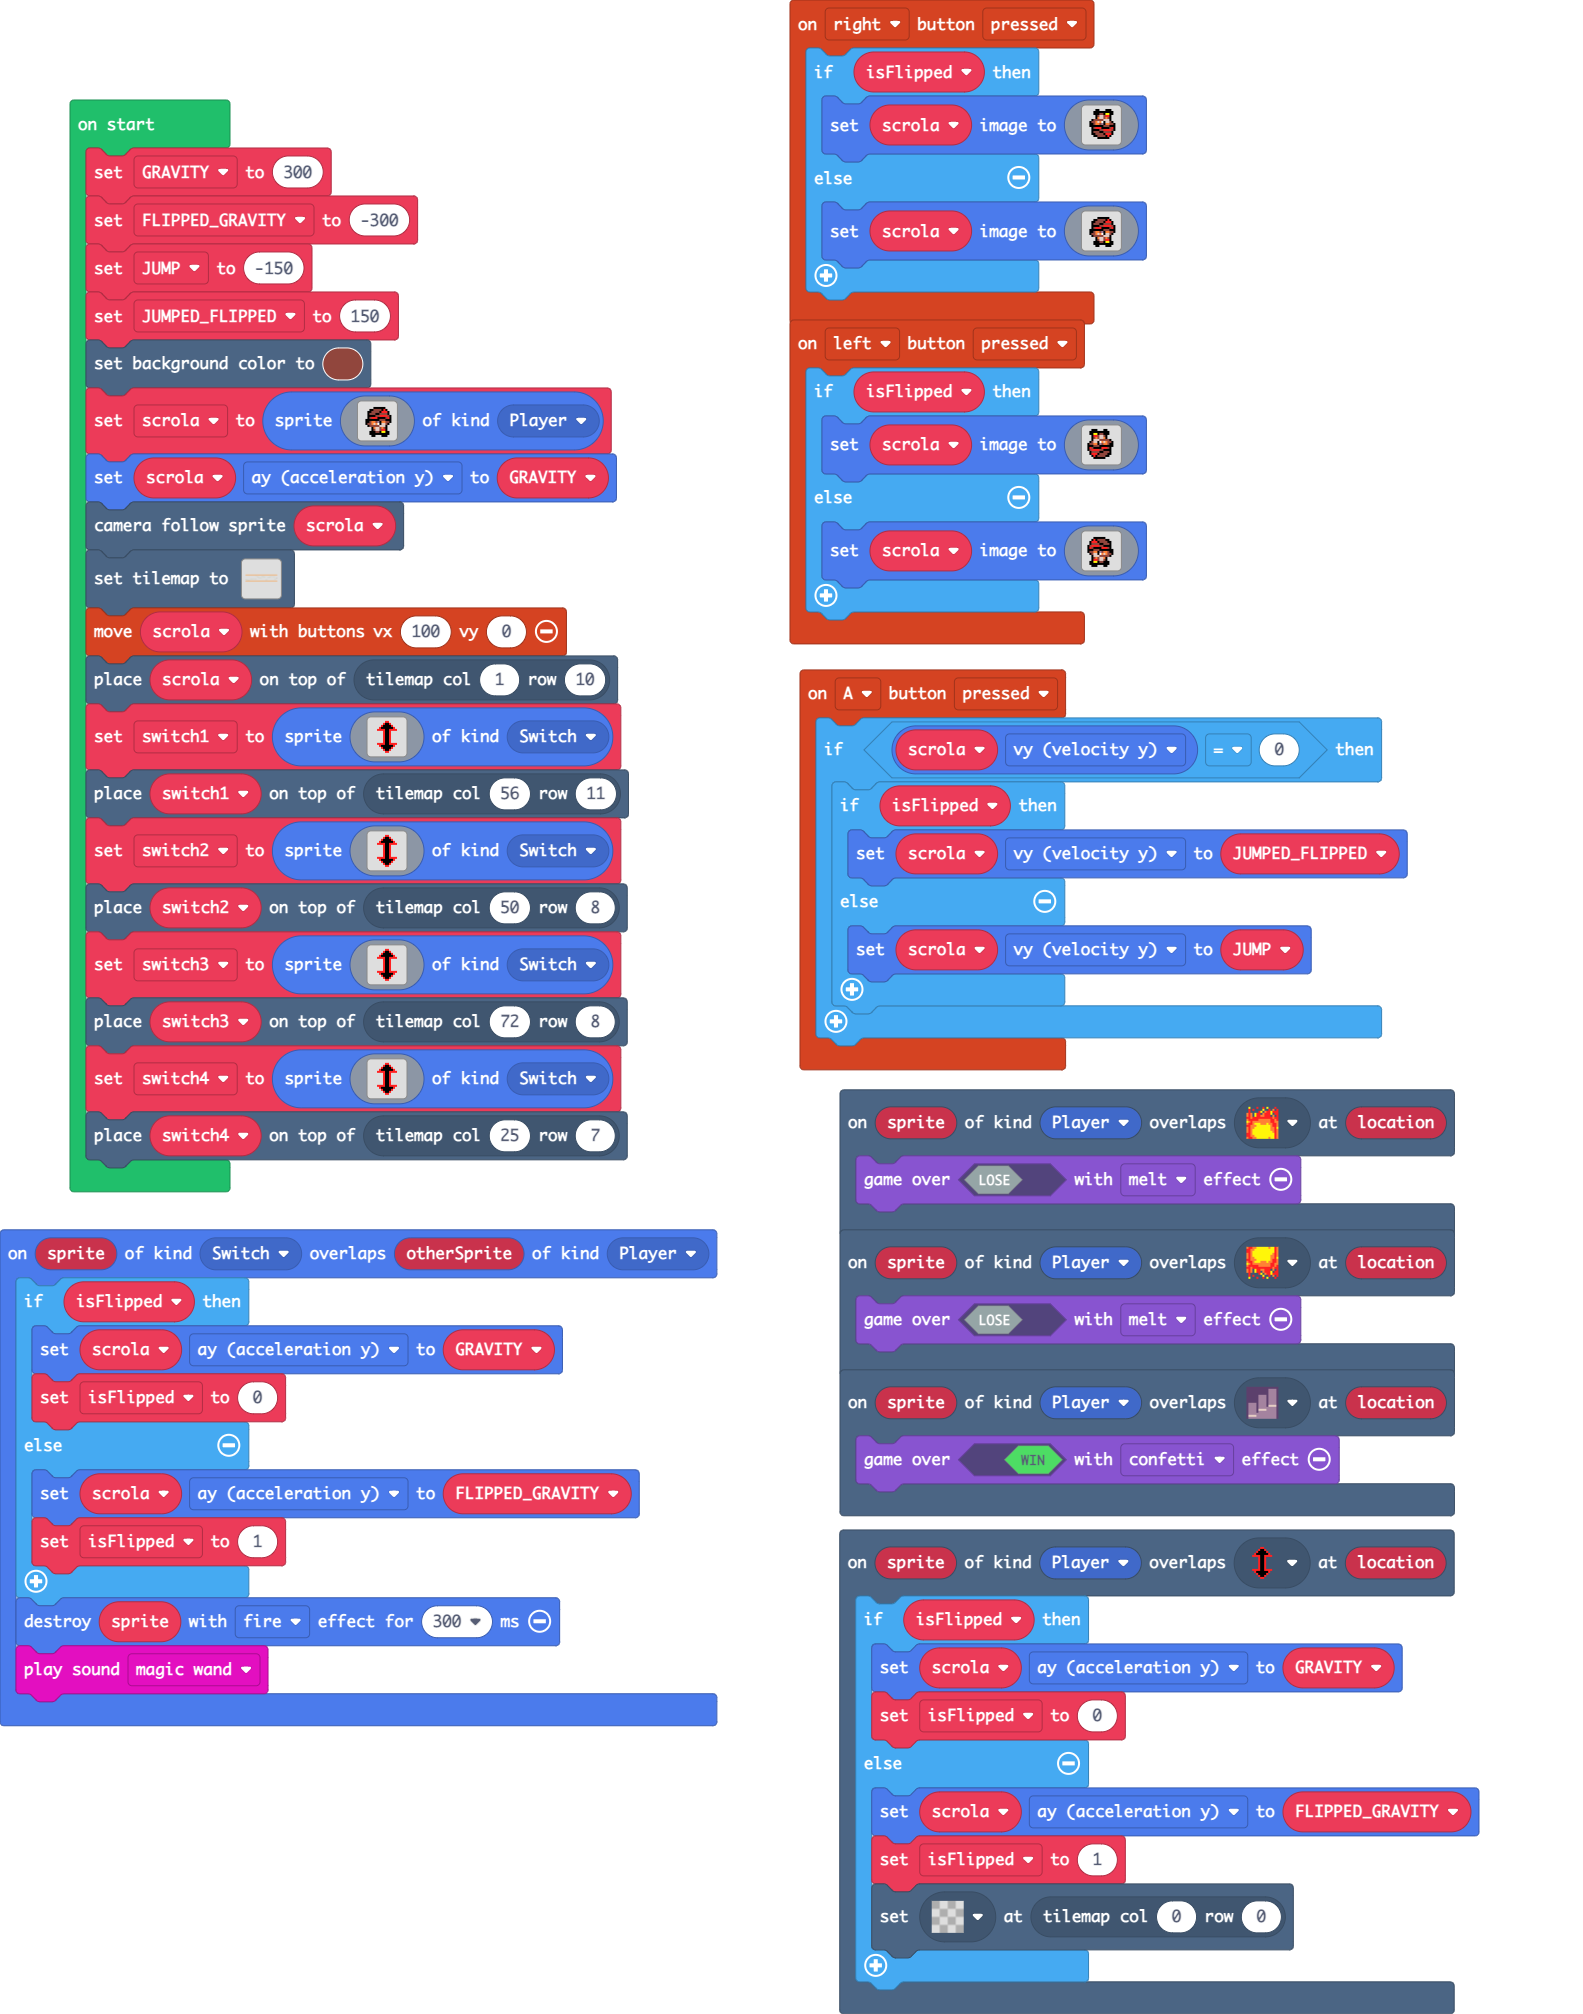
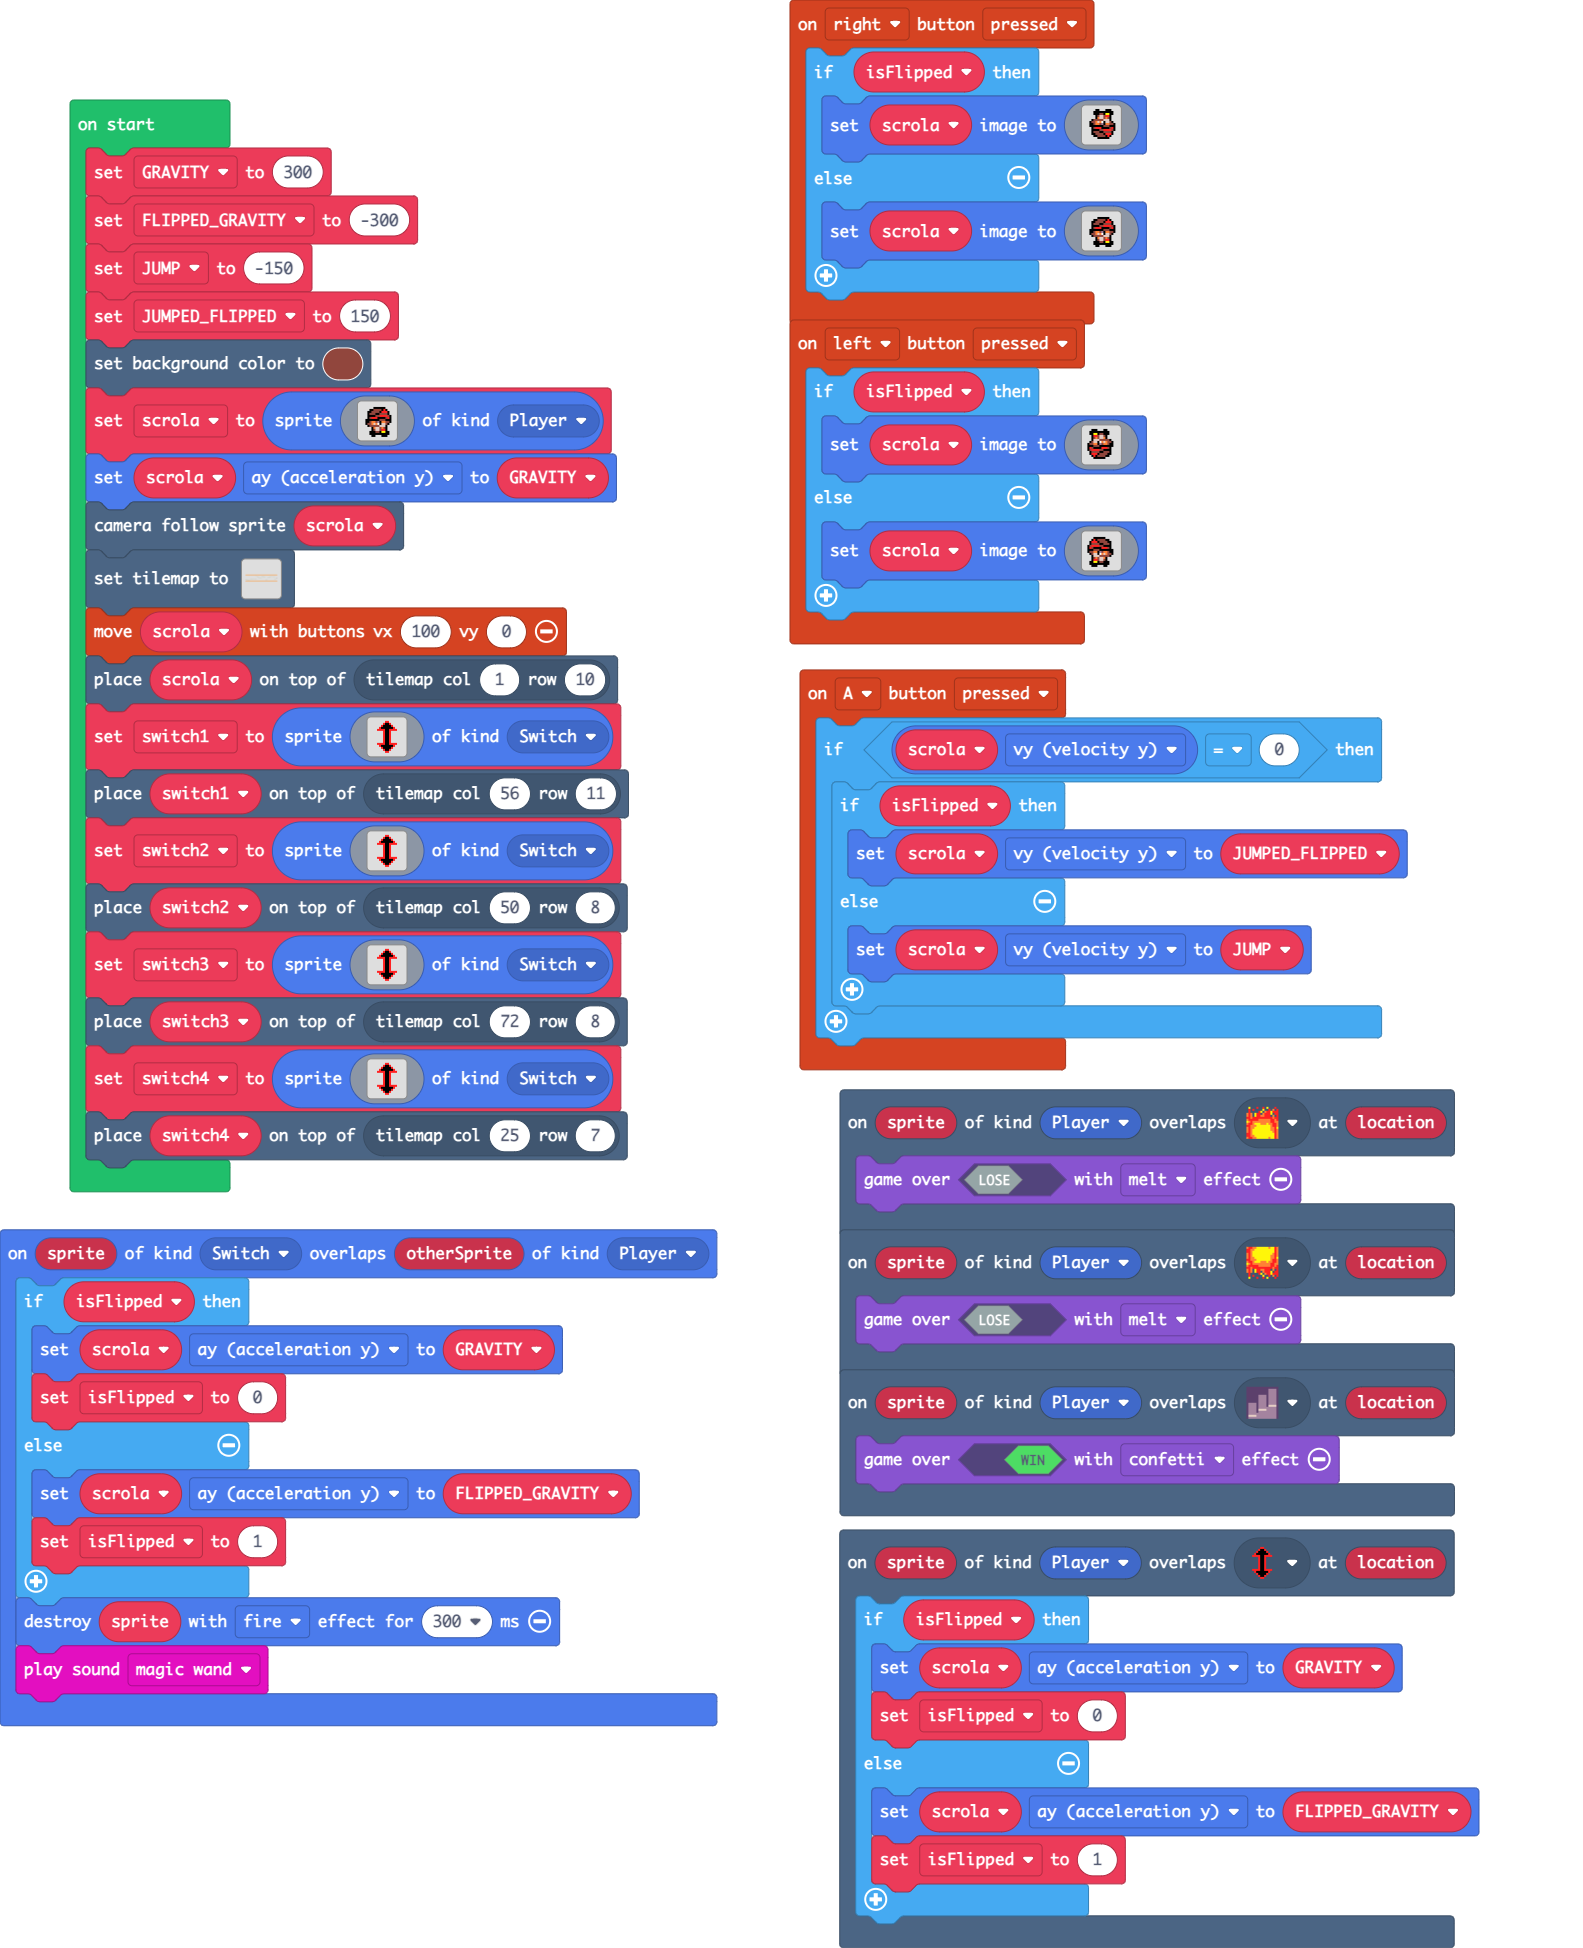
Fixed unused line

diff --git a/main.ts b/main.ts
@@ -8,7 +8,6 @@ scene.onOverlapTile(SpriteKind.Player, assets.tile`myTile`, function (sprite, lo
     } else {
         scrola.ay = FLIPPED_GRAVITY
         isFlipped = 1
-        tiles.setTileAt(tiles.getTileLocation(0, 0), assets.tile`transparency16`)
     }
 })
 controller.A.onEvent(ControllerButtonEvent.Pressed, function () {
